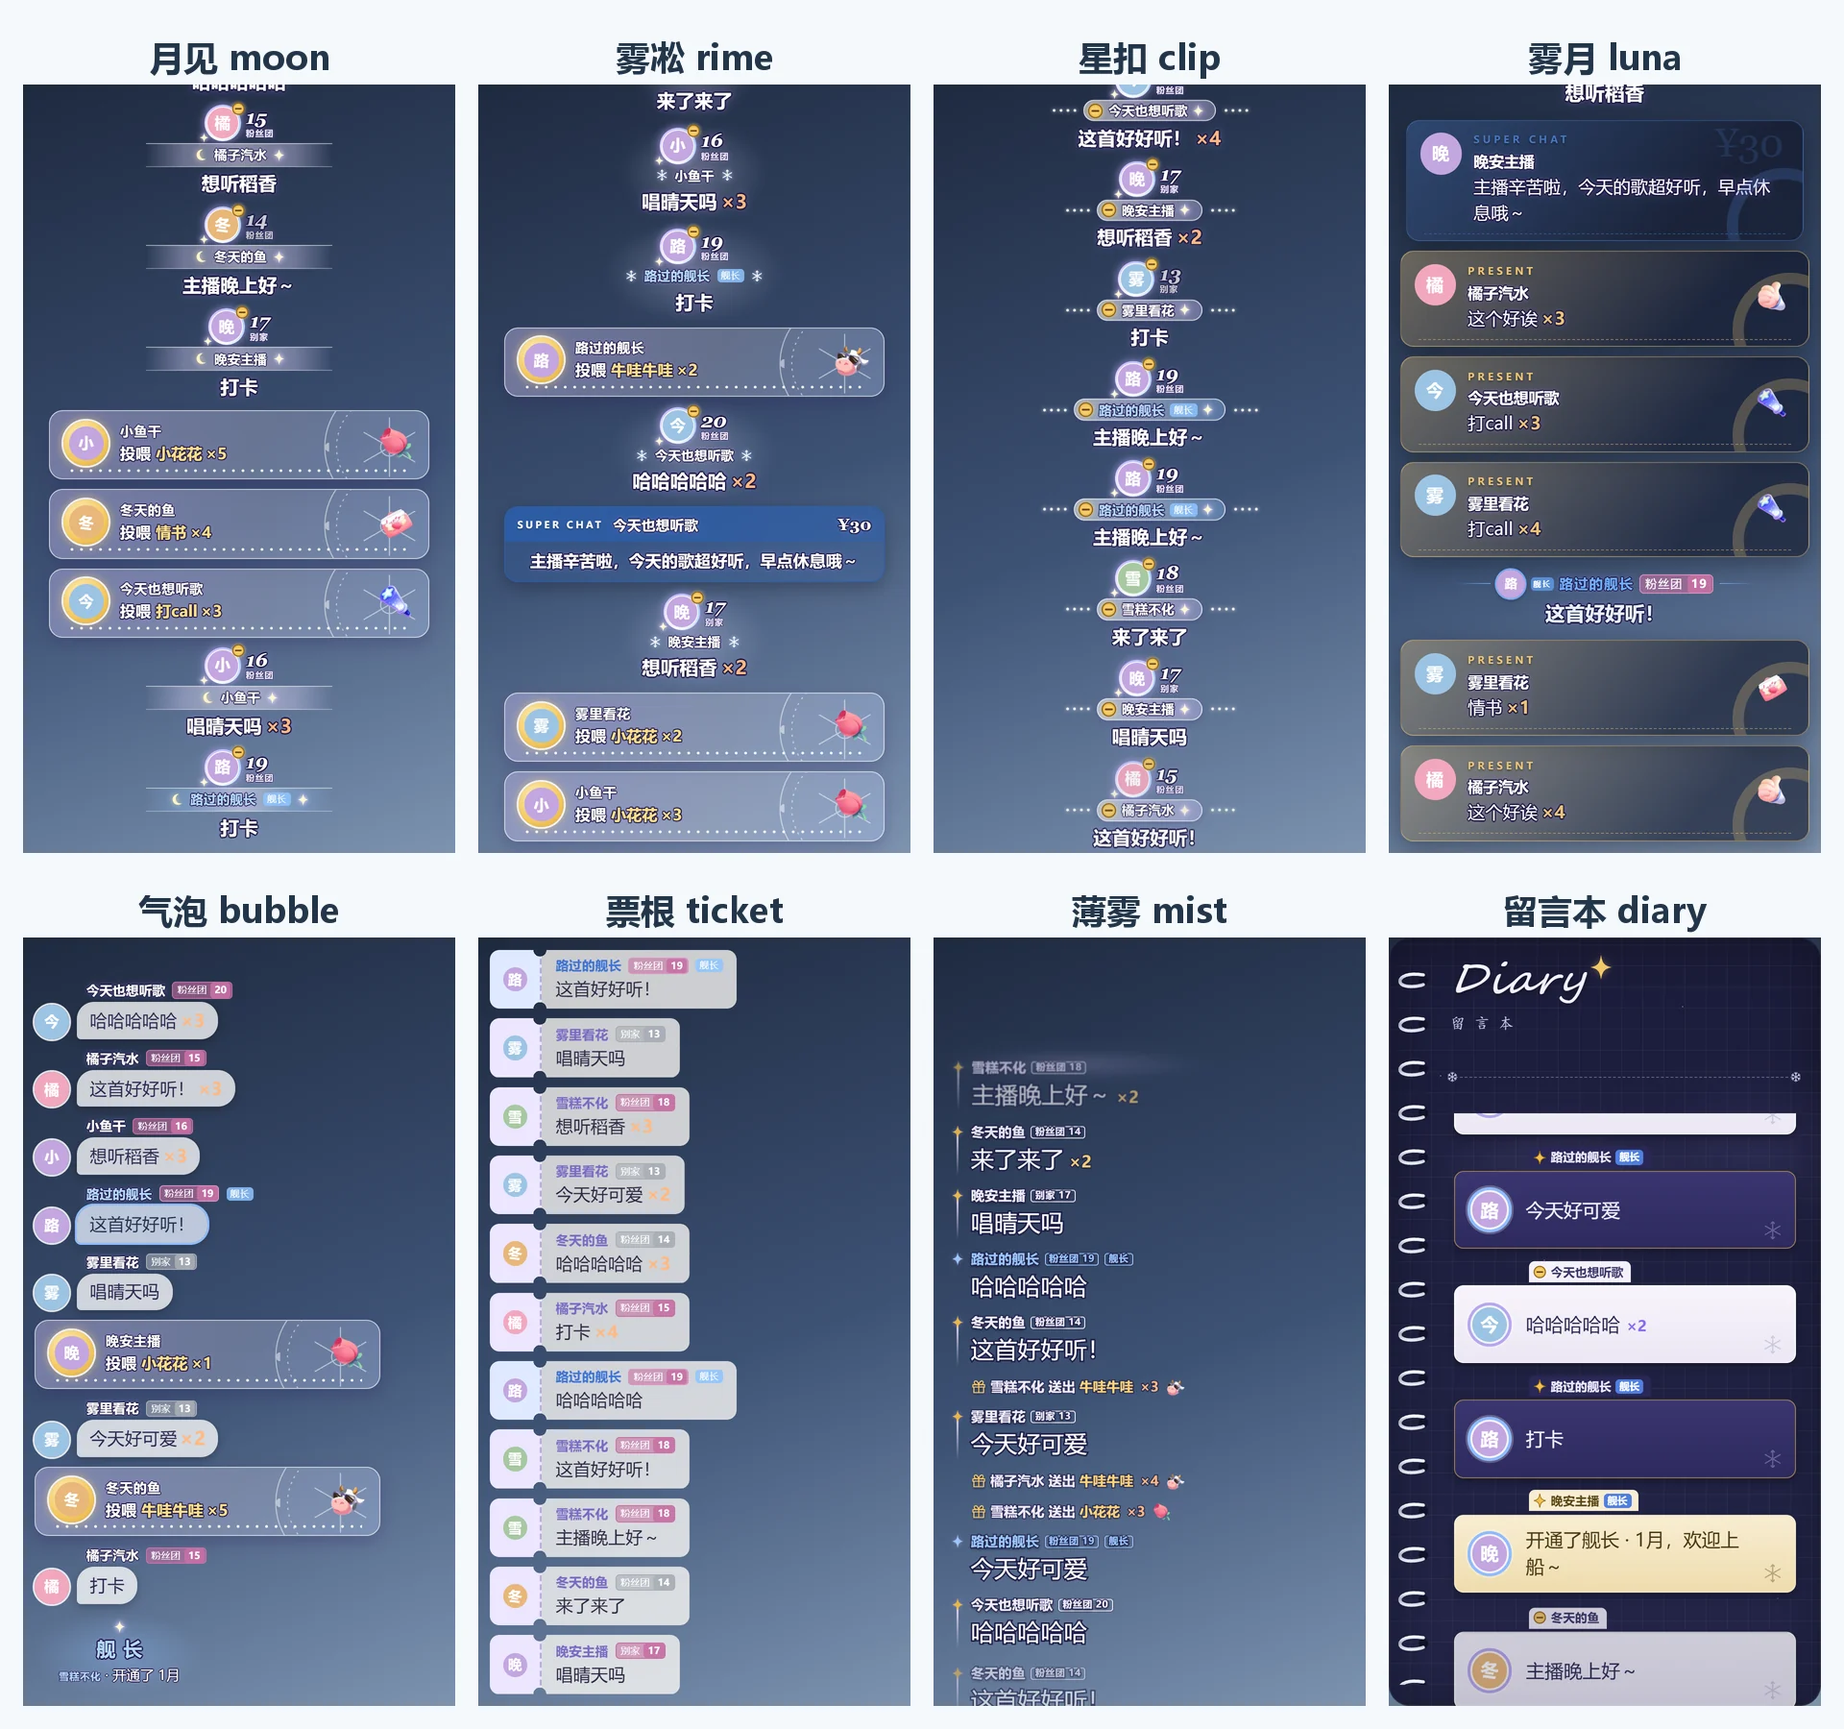
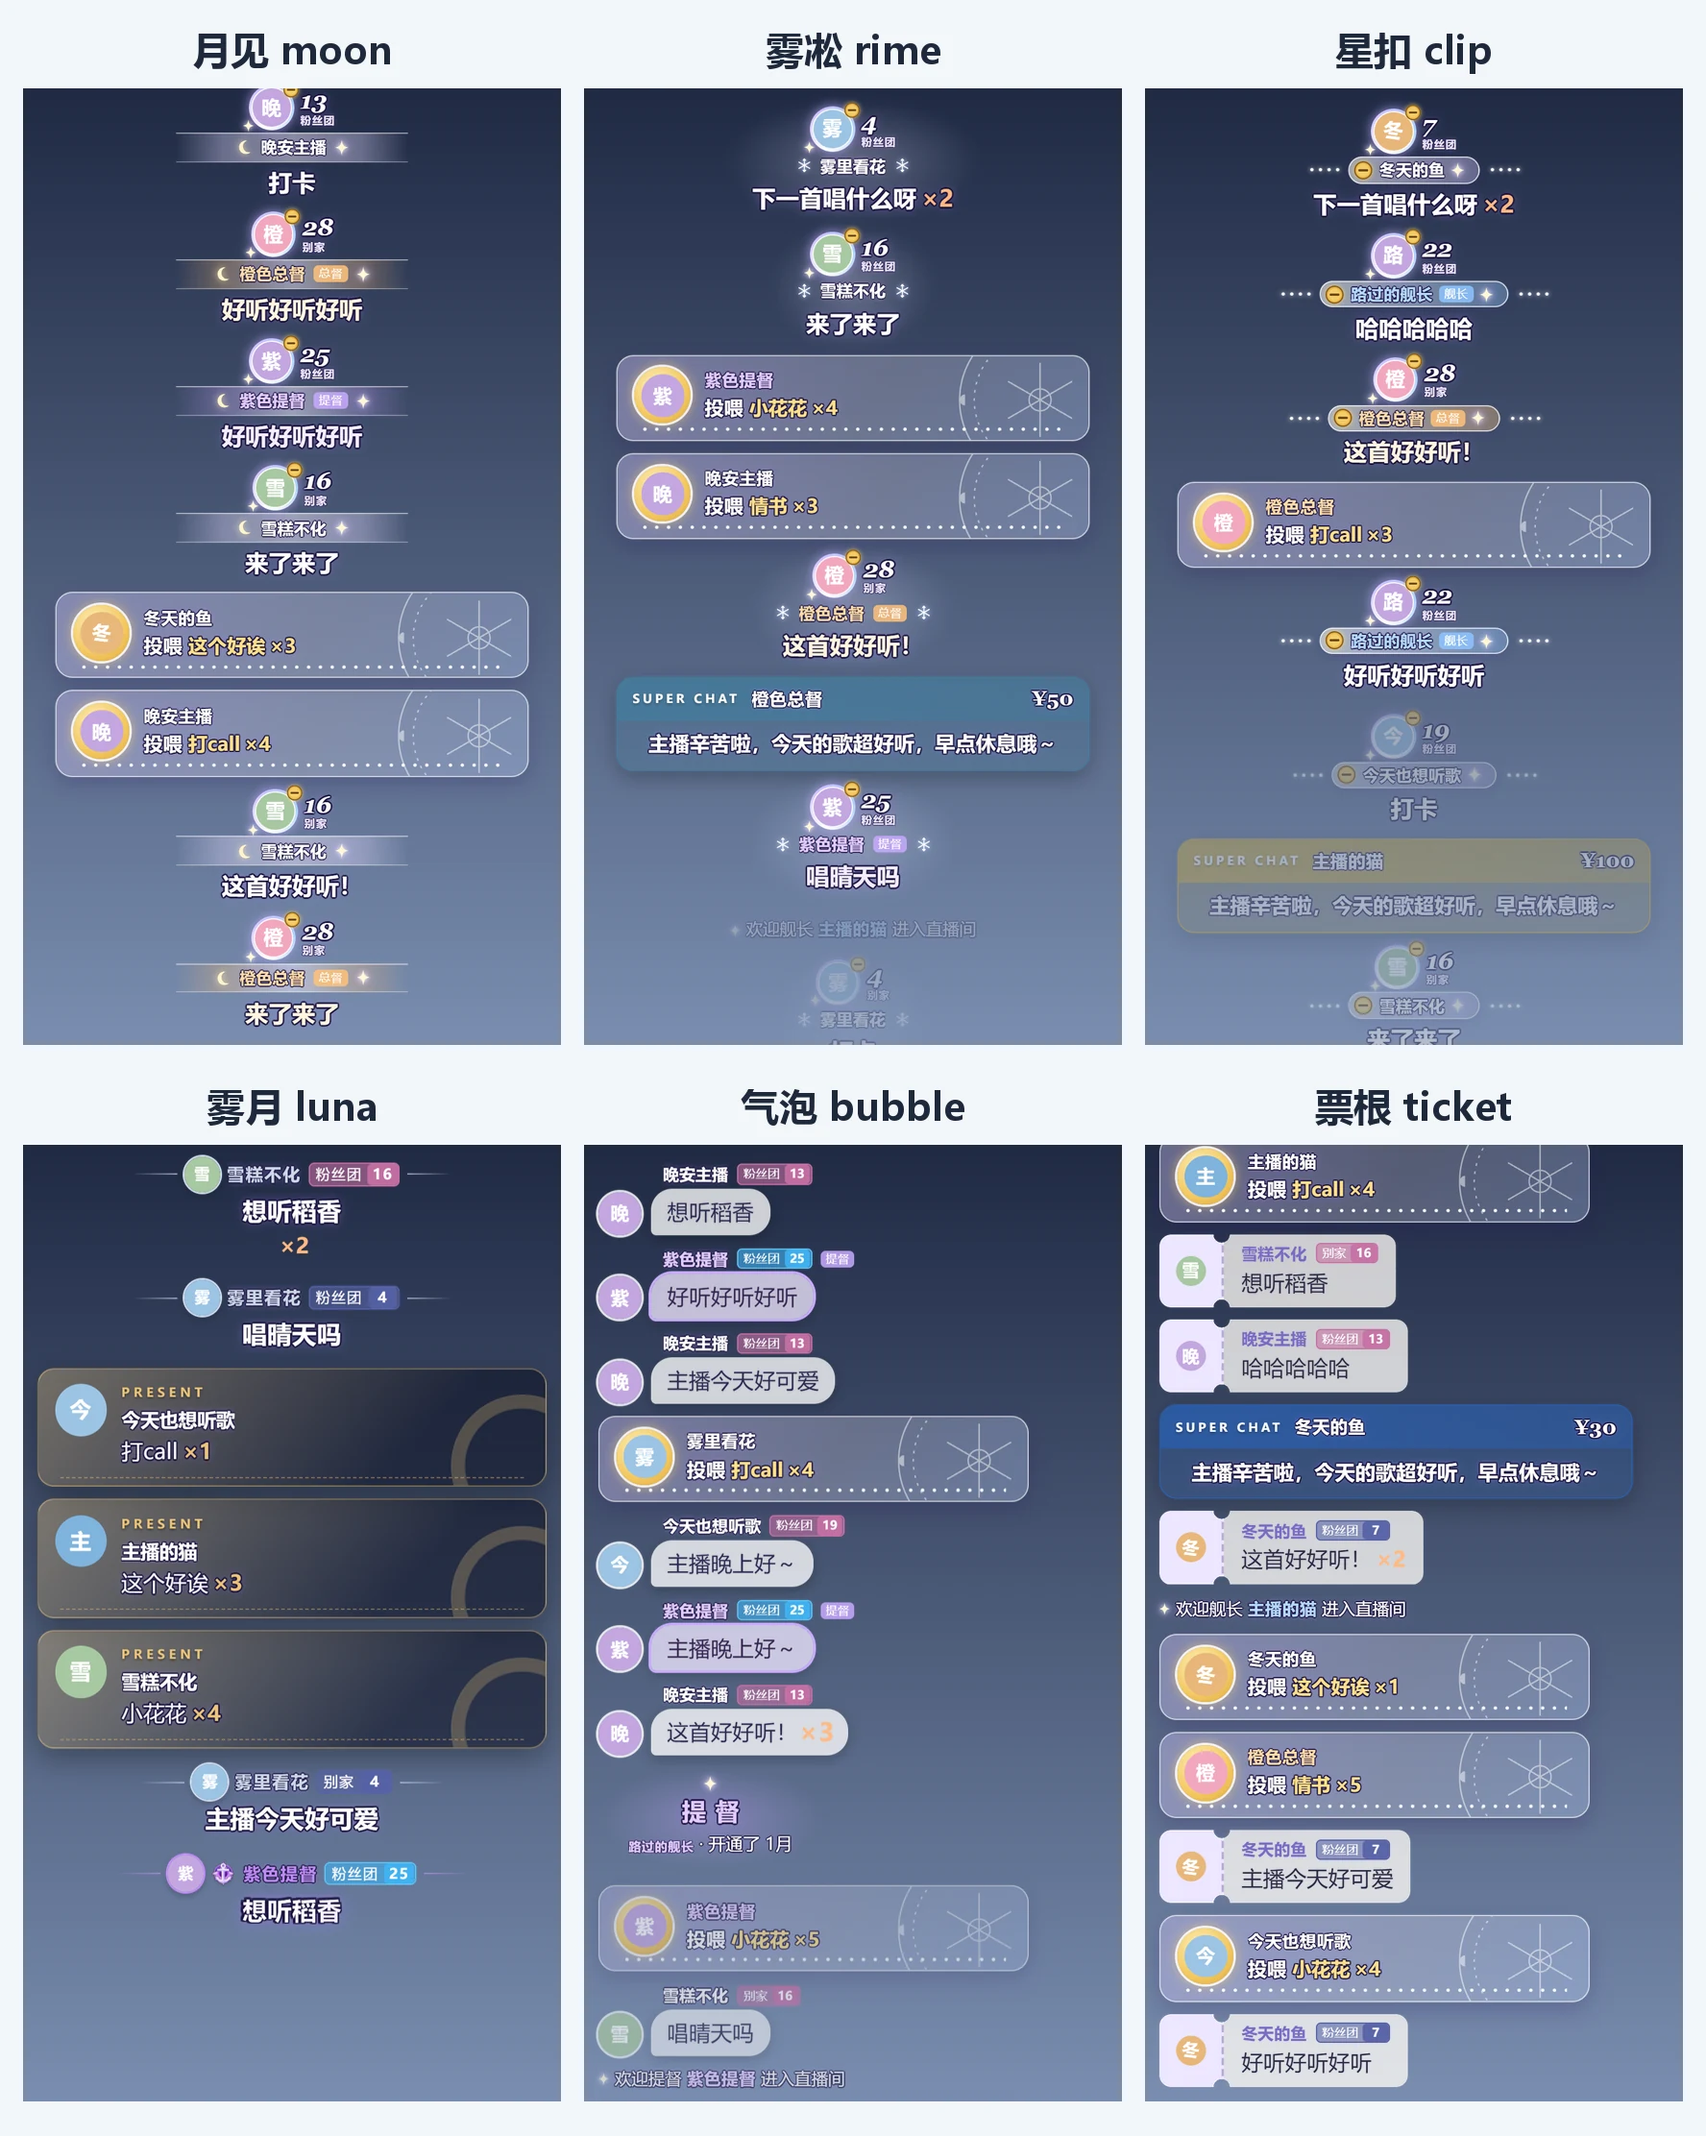
v0.9.13：直播间在软件里选、身份标签、备份、OBS 歌词 / v0.9.13: pick the room in-app, custom tags, backups, OBS lyrics
README 的 OBS 截图重拍（6 种弹幕、3 种歌单）。

diff --git a/updates.py b/updates.py
@@ -18,7 +18,7 @@ import zipfile
 
 import aiohttp
 
-VERSION = '0.9.12'
+VERSION = '0.9.13'
 REPO = 'xShadowMoon/Danmist'  # 2026-11-25 仓库从 bili-danmaku-board 改名成 Danmist（旧地址 GitHub 会自动转过来）
 REPOS = ('xshadowmoon/bili-danmaku-board', 'xshadowmoon/danmist')  # 下载地址认这两个名字（比的时候不分大小写）
 LATEST_API = f'https://api.github.com/repos/{REPO}/releases/latest'

diff --git a/CHANGELOG.md b/CHANGELOG.md
@@ -5,6 +5,61 @@ Release notes for each version are taken from this file. Downloads are on the [R
 
 ---
 
+## v0.9.13 · 2026-11-26
+
+### 直播间 · Live room
+
+- 第一次打开不再问直播间号：软件里出一张卡片，选平台（B 站 / 斗鱼 / 虎牙 / 抖音）、填房间号。填错了在「设置 → 直播间」随时换，保存后自己重启连过去。
+  No more room prompt on first launch: a card in the app lets you pick the platform (Bilibili / Douyu / Huya / Douyin) and enter the room. Change it any time in Settings → Live room; it restarts and reconnects by itself.
+- 可以直接粘贴整段直播间网址，平台也会自动选对。B 站会先显示主播名和直播间标题让你确认，免得把 UID 当成房间号。
+  You can paste the whole live-room URL and the platform is picked for you. For Bilibili, the streamer name and room title are shown for confirmation first, so a UID isn't mistaken for a room number.
+- 切换到别的直播间的菜单做大了，也能选斗鱼、虎牙、抖音。
+  The "switch room" menu is bigger and also offers Douyu, Huya and Douyin.
+
+### 新功能 · New
+
+- 身份标签自定义（设置 → 弹幕 → 身份标签）：舰长 / 提督 / 总督 / 房管 / 机器人 / 主播的名字、简称、颜色都能改；还能建自己的标签，在观众卡片里给人加上，或者标成机器人。
+  Custom identity tags: rename and recolor captain / admiral / governor / moderator / bot / streamer tags, create your own tags, and assign them (or mark bots) from the viewer card.
+- 一键备份 / 恢复：设置 → 更多 → 备份。立即备份、从某一份恢复（先备份现在的，再重启换上）、打开备份文件夹。软件内更新前会自动备份一份。
+  One-click backup / restore in Settings → More → Backup. Backs up automatically before an in-app update.
+- OBS 歌词源：歌单里「正在唱」的那首歌词上屏，有时间轴就跟着走。OBS 设置页多了「歌词」。
+  OBS lyrics source: shows the lyrics of the song marked "singing now"; timed lyrics follow the timeline. New "Lyrics" tab in the OBS setup page.
+- OBS 弹幕新选项：一段时间没人说话整列隐藏、SC 停留多久、表情包大小、进房提示只显示提督以上 / 只总督。
+  New OBS overlay options: hide when idle, SC display time, sticker size, entry banners for admiral+ / governor only.
+- 声音从哪出：设置 → 朗读，AI 朗读、提示音和这页放的歌可以选输出设备，比如只进耳机、不进直播。
+  Audio output device: in Settings → TTS, AI voice, alert sounds and in-page music can go to a chosen device (e.g. headphones only).
+- AI 音色（GPT-SoVITS）的地址在 设置 → 朗读 里填，保存时马上测连不连得上。
+  Set the GPT-SoVITS address in Settings → TTS; it is tested when you save.
+- 换看板娘以后，桌面和开始菜单的快捷方式图标也跟着换。
+  After changing the mascot, the desktop and Start menu shortcut icons change too.
+- 设置 → 更多 → 导出诊断信息：出问题时把这个发给作者（密钥、Cookie 会自动藏掉）。
+  Settings → More → Export diagnostics, with keys and cookies redacted.
+
+### 改进 · Improvements
+
+- 软件内更新：GitHub 下载不了时自动换国内加速站，下完按 GitHub 给的 sha256 核对；都不行会提示去百度网盘下。
+  In-app updates fall back to mirror sites when GitHub is unreachable and verify the sha256 published by GitHub; if all fail, it points to the Baidu Netdisk mirror.
+- 抖音：隐藏的浏览器不再下载直播视频，省 CPU、显卡和网速；抖音要验证或者页面上找不到聊天区时，那一行亮黄字并弹提醒。
+  Douyin: the hidden browser no longer downloads the video stream; if Douyin asks for verification or the chat area disappears, the row turns yellow and you get a notice.
+- 断流后 5 分钟内重新开播算同一场。
+  Restarting the stream within 5 minutes continues the same session.
+- AI 音色、网易云 / QQ 音乐、B 站名片这些外部服务连续失败时先歇一会再试，不再一直卡着。
+  External services (AI voice, music, Bilibili profile cards) back off after repeated failures.
+
+### 安全 · Security
+
+- 经 Nginx、frp、ngrok 这类转发进来的访问不再被当成「在这台电脑上打开」，要用管理链接才有管理权限。
+  Requests arriving through a reverse proxy (Nginx, frp, ngrok…) are no longer treated as local; they need an admin link.
+- 图片缓存最多占 500MB，超了先删最久没看的。抖音浏览器的调试口只开在本机。
+  Image cache is capped at 500 MB. The Douyin browser's debug port listens on localhost only.
+
+### 怎么更新 · How to update
+
+顶栏点「下载更新」→「重启生效」。更早的版本见 README「更新到新版本」。
+Click **download update** → **restart**. Older versions: see "Updating to a new version" in the README.
+
+---
+
 ## v0.9.12 · 2026-11-26
 
 ### 抖音 · Douyin
